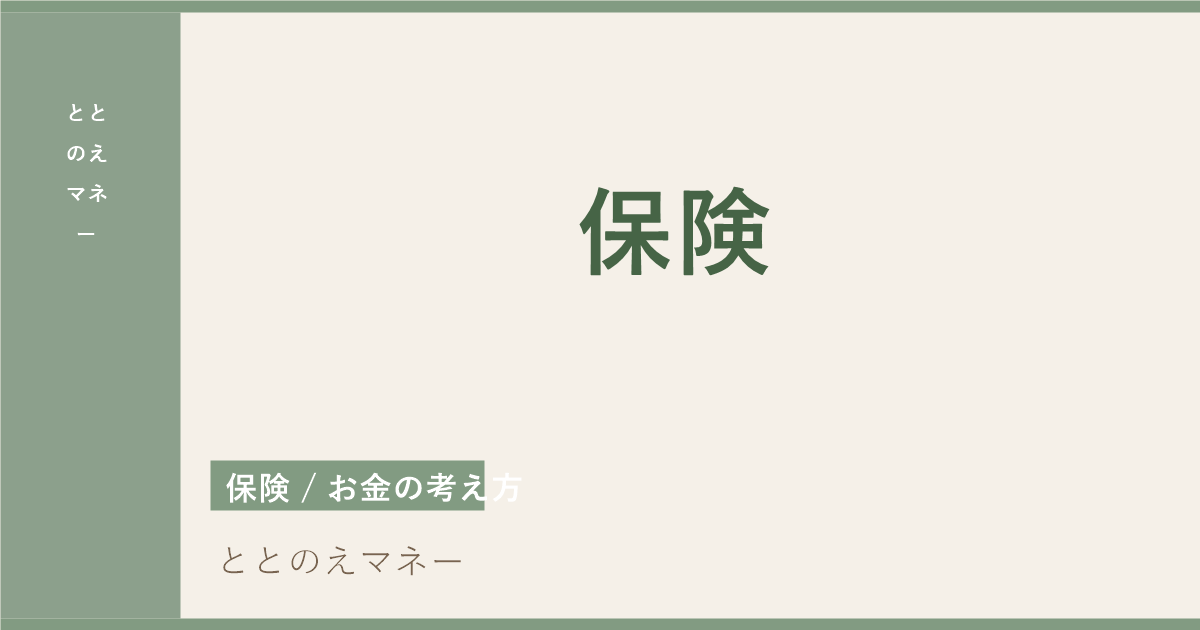
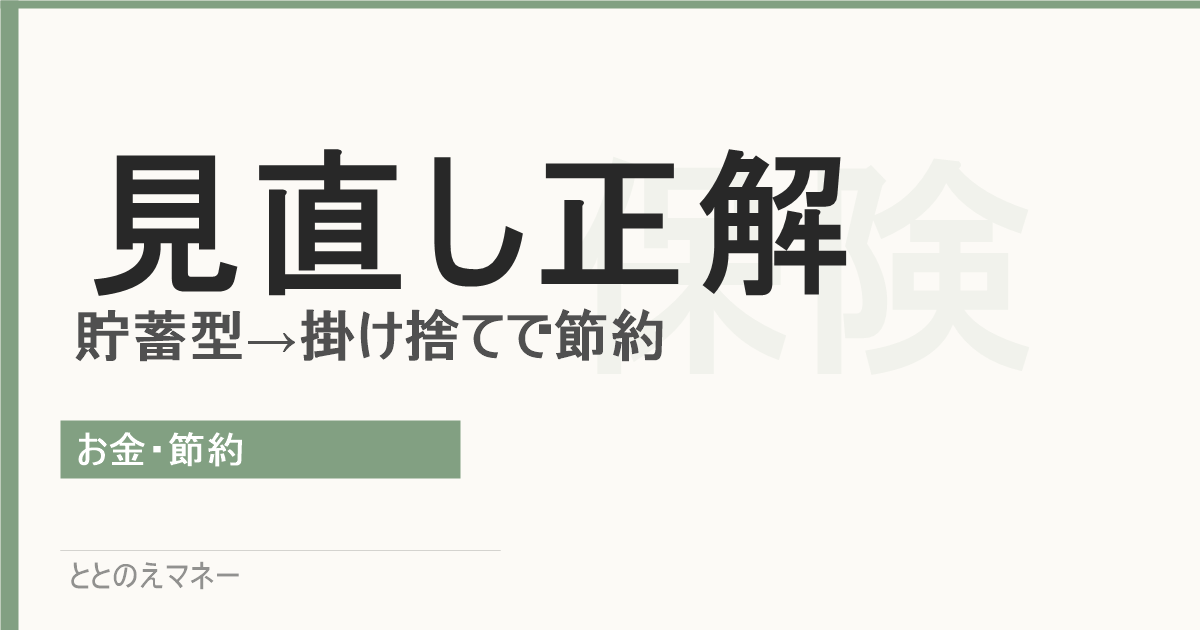
収益化強化：クレカ記事追加・数字入りサムネイル・トップページ改善
- credit-card-1mai.md 新規作成（クレカ1枚絞り込み体験記）
- divorce-and-exam.md に featured: true 追加
- hugo.toml: homeInfoParams改善・はじめての方へメニュー追加
- サムネイル5枚を数字入りデザインに更新
  - divorce-and-exam.png: 「100万円超」
  - sim-hikaku.png: 「月5,000円減」
  - shogakukin-kyufu-matome.png: 「5種類」
  - hoken-minaoshi.png: 「見直し正解」
  - credit-card-1mai.png: 「年2万円差」（新規）

Changed region(s): [[0.0, 0.0, 1.0, 1.0]]

diff --git a/content/posts/credit-card-1mai.md b/content/posts/credit-card-1mai.md
@@ -1,0 +1,166 @@
+---
+title: "クレジットカード1枚にしたら年間2万円差｜シンママのリアルな節約効果"
+date: 2026-04-30
+draft: false
+description: "カードを3枚から1枚に絞ったら年間約2万円の差が出ました。楽天カード・イオンカード・JALカードを実体験で比較。シンママ目線で正直にレビューします。"
+tags: ["節約", "クレジットカード", "シンママ", "家計管理", "固定費", "ポイント"]
+categories: ["お金・節約"]
+cover:
+  image: /images/credit-card-1mai.png
+  alt: "クレジットカード・コイン・家計簿のフラットレイ"
+---
+
+こんにちは、まゆみんです。
+
+正直、クレジットカードで損していました。
+
+何枚も持っていたけど、ポイントは分散して「ちゃんと貯まっている実感」が全然なかったんです。
+
+思い切って1枚にまとめた結果、**年間で約2万円以上の差が出ました。**
+
+この記事では、実際にやめたカードと1枚に絞って感じた変化をリアルにまとめます。
+
+---
+
+## カードを減らしただけで2万円差が出た理由
+
+以前はこんな使い方でした。
+
+- スーパー → 別のカード
+- ネット通販 → また別のカード
+- 光熱費 → さらに別のカード
+
+完全にポイントが分散していました。
+
+例えば月の支出が10万円でも、3枚に分けるとそれぞれ約3万円ずつ。
+
+これだと**ポイントが貯まりきらない**状態が続きます。
+
+結果的に、持っているだけで管理の手間と時間を取られていました。
+
+シングルマザーとして子ども2人を育てながら、家計のことを全部ひとりで管理しなければいけない。
+
+正直、カードの管理がじわじわとストレスになっていました。
+
+---
+
+## 1枚にまとめたらどうなったか（具体的な金額）
+
+生活費を1枚に集中させた結果です。
+
+| 項目 | 金額 |
+|------|------|
+| 月の利用額 | 約10万円 |
+| 基本還元率 | 約1% |
+| 月のポイント | 約1,000円分 |
+| 年間ポイント | 約12,000円 |
+
+さらに、キャンペーンやポイントアップを合わせると年間**約20,000円以上**になりました。
+
+以前は3枚に分散していたので、この差がまるっと損になっていたことになります。
+
+---
+
+## 実際にやめたカード
+
+私は「なんとなく持っていたカード」を全部解約しました。
+
+理由はシンプルです。
+
+- 使い分けが面倒
+- 毎月の明細確認がストレス
+- 結局ポイントを得していない
+
+少ない方が圧倒的にラクでした。
+
+長女が大学受験・次女が高校受験の年に離婚という状況で、教育費が一気にかかる時期でした。
+
+そのとき「管理が楽で、確実にポイントが貯まる1枚に絞ろう」と決めたのがきっかけです。
+
+教育費が実際いくらかかったかはこちらでまとめています→[受験期に離婚…教育費はいくら？シンママが2人受験を乗り切った全内訳](/posts/divorce-and-exam/)
+
+---
+
+## 比較：結局どのカードがいい？
+
+迷った3枚を正直にレビューします。
+
+### ① 楽天カード（一番バランスがいい）
+
+- 年会費：**無料**
+- 還元率：**1%**
+- ポイントの使い道：楽天市場・楽天ペイなど豊富
+
+「迷ったらこれ」で問題ないカードです。
+
+楽天をよく使う方は還元率がさらに上がる場面もあり、コスパが高いです。
+
+まずは公式サイトで詳細を確認してみてください。
+
+### ② イオンカード（生活費中心の方向け）
+
+- イオン系列のスーパーで割引あり
+- 食料品・日用品との相性が良い
+
+普段の買い物がイオン中心という方には使いやすい1枚です。
+
+### ③ JALカード（体験ベースで正直レビュー）
+
+私は現在このカードを使っています。
+
+ただ**正直に言うと、万人向けではありません。**
+
+- 年会費がかかる
+- マイルを貯める前提の仕組みのため、飛行機を使わない方には合わない
+
+ただし、帰省や出張で飛行機をよく使う方にはかなり強いカードです。
+
+私は子どもの受験や帰省で飛行機に乗る機会があるので、結果的には選んでよかったと感じています。
+
+「飛行機に乗らない方にはすすめない」というのが正直なところです。
+
+---
+
+## どれを選べばいいか迷ったら
+
+シンプルにこれだけ見てください。
+
+| こんな人 | おすすめ |
+|----------|----------|
+| とにかく迷いたくない | 楽天カード |
+| 買い物はイオン中心 | イオンカード |
+| 飛行機をよく使う | JALカード |
+
+---
+
+## まとめ
+
+クレジットカードは「増やす」より**「絞る」**だけで変わります。
+
+私は実際に年間2万円以上の差が出ました。
+
+特に教育費など出費が増える時期は、この差がかなり大きく感じます。
+
+まずは**使っていないカードを1枚解約するだけ**でもOKです。
+
+そこから少しずつ見直していくのがおすすめです 🌿
+
+---
+
+最後まで読んでくれてありがとうございます。
+
+---
+
+固定費の見直しで一番すぐ効果が出るのは、実はスマホ代とカードのポイント管理です。
+
+スマホ代を見直した話はこちらでまとめています。
+
+👉 [スマホ代を月5,000円下げた方法（格安SIMまとめ）](/posts/sim-hikaku/)
+
+---
+
+## あわせて読みたい 📖
+
+- [受験期に離婚…教育費はいくら？シンママが2人受験を乗り切った全内訳](/posts/divorce-and-exam/)
+- [スマホ代を月5,000円下げた方法（格安SIMまとめ）](/posts/sim-hikaku/)
+- [シンママになって変えたお金の使い方7つ](/posts/okane-tsukaikata-change/)

diff --git a/content/posts/divorce-and-exam.md b/content/posts/divorce-and-exam.md
@@ -5,6 +5,7 @@ draft: false
 description: "長女が大学受験・次女が高校受験の同じ年に離婚。受験費用・入学費用の実数と、固定費見直しで毎月3万円以上削減した方法をすべて公開します。"
 tags: ["体験談", "シンママ", "家計", "受験", "離婚", "教育費", "養育費", "節約"]
 categories: ["シンママ体験談"]
+featured: true
 cover:
   image: /images/divorce-and-exam.png
   alt: "ノート・ペンのフラットレイ"
